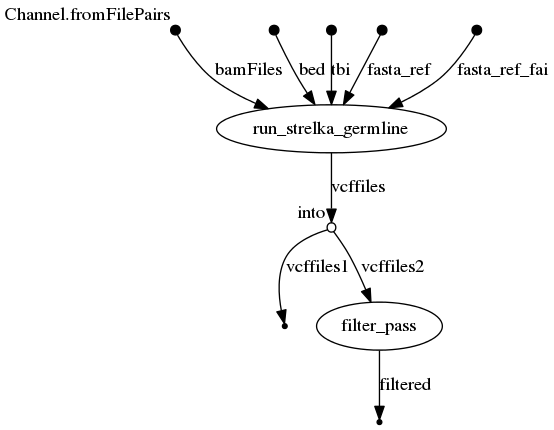
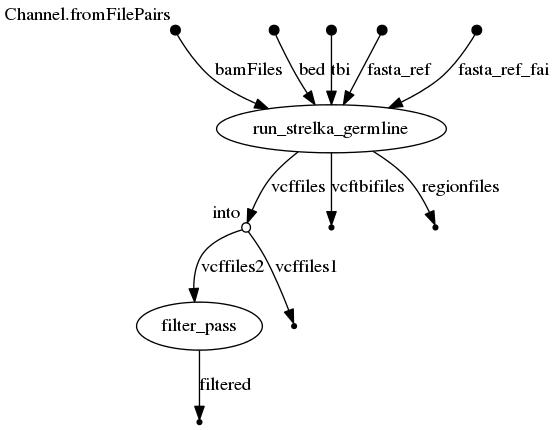
circle CI deployment [skip ci]

diff --git a/dag.html b/dag.html
@@ -111,10 +111,12 @@ nodes: [
 { data: { id: 'p3'}, classes: 'ORIGIN' },
 { data: { id: 'p4'}, classes: 'ORIGIN' },
 { data: { id: 'p5', label: 'run_strelka_germline'}, classes: 'PROCESS' },
-{ data: { id: 'p6', label: 'into'}, classes: 'OPERATOR' },
+{ data: { id: 'p6'}, classes: 'NODE' },
 { data: { id: 'p7'}, classes: 'NODE' },
-{ data: { id: 'p8', label: 'filter_pass'}, classes: 'PROCESS' },
+{ data: { id: 'p8', label: 'into'}, classes: 'OPERATOR' },
 { data: { id: 'p9'}, classes: 'NODE' },
+{ data: { id: 'p10', label: 'filter_pass'}, classes: 'PROCESS' },
+{ data: { id: 'p11'}, classes: 'NODE' },
 ],
 edges: [
 { data: { source: 'p0', target: 'p5', label: 'bamFiles' } },
@@ -122,10 +124,12 @@ edges: [
 { data: { source: 'p2', target: 'p5', label: 'tbi' } },
 { data: { source: 'p3', target: 'p5', label: 'fasta_ref' } },
 { data: { source: 'p4', target: 'p5', label: 'fasta_ref_fai' } },
-{ data: { source: 'p5', target: 'p6', label: 'vcffiles' } },
-{ data: { source: 'p6', target: 'p8', label: 'vcffiles2' } },
-{ data: { source: 'p6', target: 'p7', label: 'vcffiles1' } },
-{ data: { source: 'p8', target: 'p9', label: 'filtered' } },
+{ data: { source: 'p5', target: 'p8', label: 'vcffiles' } },
+{ data: { source: 'p5', target: 'p7', label: 'vcftbifiles' } },
+{ data: { source: 'p5', target: 'p6', label: 'regionfiles' } },
+{ data: { source: 'p8', target: 'p9', label: 'vcffiles1' } },
+{ data: { source: 'p8', target: 'p10', label: 'vcffiles2' } },
+{ data: { source: 'p10', target: 'p11', label: 'filtered' } },
 ],
 },
 
